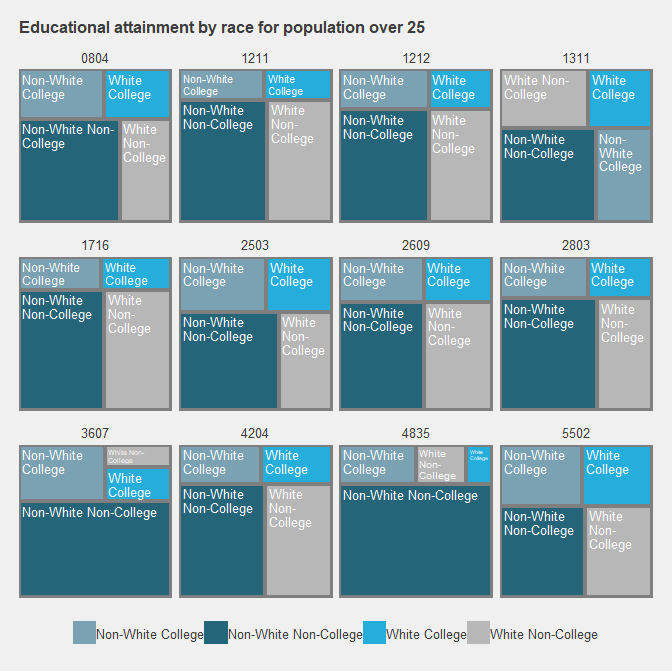
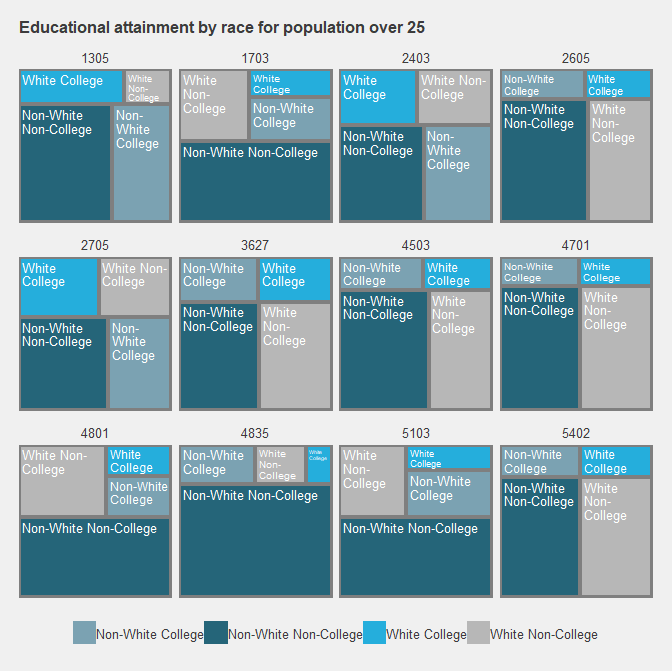
re

Changed region(s): [[0.0312, 0.0625, 0.9688, 0.9062], [0.5938, 0.3438, 0.625, 0.375]]

diff --git a/README.md b/README.md
@@ -349,7 +349,7 @@ tree %>%
 Trump ed/race dems by binned degrees of support.
 
 ``` r
-x <- dailykos_pres_elections %>%
+dailykos_pres_elections %>%
   filter(candidate == 'Trump') %>%
   mutate(cut = cut_number(percent, n =10),
          rank_cut = dense_rank(cut)) %>%
@@ -372,6 +372,8 @@ x <- dailykos_pres_elections %>%
 ```
 
     ## Joining, by = "GEOID"
+
+![](README_files/figure-markdown_github/unnamed-chunk-19-1.png)
 
 ------------------------------------------------------------------------
 
